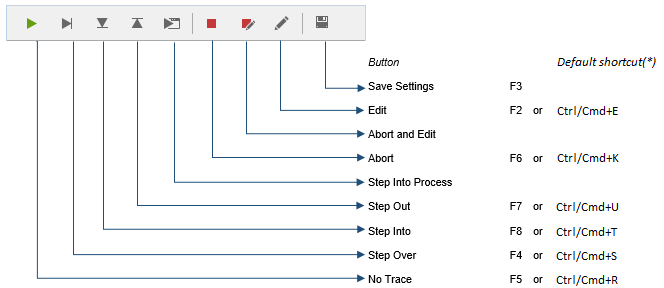
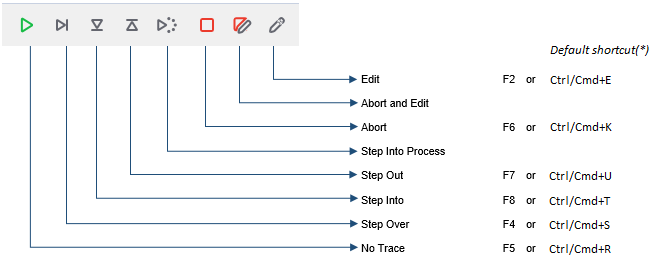
debugger first edits

diff --git a/docs/Debugging/debugger.md b/docs/Debugging/debugger.md
@@ -12,7 +12,7 @@ The debugger is useful when you need to spot errors or monitor the execution of 
 There are multiple ways to get the Debugger to display:
 
 * Clicking the **Trace** button in the [Syntax Error window](basics.md#syntax-error-window)
-* Using the [`TRACE`](https://doc.4d.com/4dv19/help/command/en/page157.html) command
+* Using the [`TRACE`](../commands-legacy/trace.md) command
 * Clicking the **Debug** button in the Execute Method window or selecting **Run and debug...** button in the Code Editor
 * Using **Alt+Shift+Right click** (Windows) or **Ctrl+Option+Cmd+Click** (macOS) while a method is executing, then selecting the process to trace in the pop-up menu:
 
@@ -23,8 +23,8 @@ There are multiple ways to get the Debugger to display:
 
 When called, the debugger window provides the name of the method or class function you're currently tracing, and the action causing the initial appearance of the Debugger window. For example, in the above debugger window:
 
-* *Clients_BuildLogo* is the method being traced
-* The debugger window appeared because it detected a call to the `C_PICTURE` command and this command was one of the commands to be caught
+* *drop* is the method being traced
+* The debugger window appeared because of a break point. 
 
 Displaying a new debugger window uses the same configuration as the last window displayed in the same session. If you run several user processes, you can trace them independently and have one debugger window open for each process.
 
@@ -46,7 +46,11 @@ The debugger's tool bar includes several buttons, associated with default shortc
 
 ![execution-control-toolbar-buttons](../assets/en/Debugging/executionToolbarButtons.png)
 
-> Default shortcuts can be customized in the Shortcuts Page of the Preferences dialog box.
+:::note
+
+Default shortcuts can be customized in the [Shortcuts Page](../Preferences/shortcuts.md) of the Preferences dialog box.
+
+:::
 
 #### No Trace
 
@@ -103,16 +107,27 @@ If you use this button to modify a method, the modifications are only effective 
 
 > **Tip:** Use this button when you know which changes are required in your code and when they don't interfere with the rest of the code to be executed or traced.
 
-#### Save Settings  
+## Saving configuration  
 
-Saves the current configuration of the debugger window  and makes it the default configuration. This includes:
+The current configuration of the debugger window is automatically saved in the project. This includes:
 
-* the size and position of the window
-* the position of the division lines and the contents of the area that evaluates the expressions
+- expressions currently displayed in the custom watch pane expressions. By default, expressions are saved with the current method or function. You can also [pin an expression] to display it in all contexts. 
+- the size and position of the window,
+- the position of the division lines.
 
-These parameters are stored in the project.
+These parameters are stored .
 
 This action is not available in remote debugging mode (see [Debugging from Remote Machines](./debugging-remote)).
+
+
+The **Default size settings** button restores the default position and size of the window (including the window itself and the division lines). 
+
+![factory-settings-button](../assets/en/Debugging/debugger-factory.png)
+
+
+### Pin an expression
+
+![pinning-expression](../assets/en/Debugging/pin-expression.png)
 
 ## Watch Pane
 

diff --git a/docs/Debugging/basics.md b/docs/Debugging/basics.md
@@ -71,7 +71,11 @@ The syntax error window proposes several options:
 
 - **Continue**: Execution continues. The line with the error may be partially executed, depending on where the error is located. Continue with caution: the error may prevent the rest of your method from executing properly. We recommend clicking **Continue** only if the error is in a trivial call (such as `SET WINDOW TITLE`) that does not prevent executing and testing the rest of your code.
 
-> Tip: To ignore an error that occurs repeatedly (for example, in loops), you can turn the **Continue** button into an **Ignore** button. Hold down **Alt** (Windows) or **Option** (macOS) key and click the **Continue** button the first time it appears. The button label changes to **Ignore** if the dialog is called again for the same error.
+:::tip
+
+To ignore an error that occurs repeatedly (for example, in loops), you can turn the **Continue** button into an **Ignore** button. Hold down **Alt** (Windows) or **Option** (macOS) key and click the **Continue** button the first time it appears. The button label changes to **Ignore** if the dialog is called again for the same error.
+
+:::
 
 - **Abort**: Stops method execution and returns to the state before the method started executing:
 
@@ -84,7 +88,7 @@ The syntax error window proposes several options:
 
 ## Debugger
 
-A common beginner mistake in dealing with error detection is to click **Abort** in the Syntax Error Window, go back to the Code Editor, and try to figure out what's going by looking at the code. Do not do that! You will save plenty of time and energy by always using the **Debugger**.
+A common beginner mistake in dealing with error detection is to click **Abort** in the Syntax Error Window, go back to the Code Editor, and try to figure out what's going by looking at the code. Do not do that! You will save plenty of time and energy by always using the [**Debugger**](debugger.md).
 
 The Debugger allows you to step through methods slowly. It displays all the information you need in order to understand why an error occurred. Once you have this information, you know how to fix the error.
 
@@ -92,6 +96,6 @@ Another reason to use the Debugger is for developing code. Sometimes you may wri
 
 ## Breaks
 
-In the debugging process, you may need to skip the tracing of some parts of the code until a certain line. Or, you may want to trace the code when a given expression has a certain value (e.g. "$myVar > 1000"), or every time a specific 4D command is called.
+In the debugging process, you may need to skip the tracing of some parts of the code until a certain line. Or, you may want to trace the code when a given expression has a certain value (e.g. `$myVar > 1000`), or every time a specific 4D command is called.
 
 These needs are covered by **breakpoints** and **command catching** features. They can be configured from the Code Editor, the debugger, or the Runtime Explorer.
